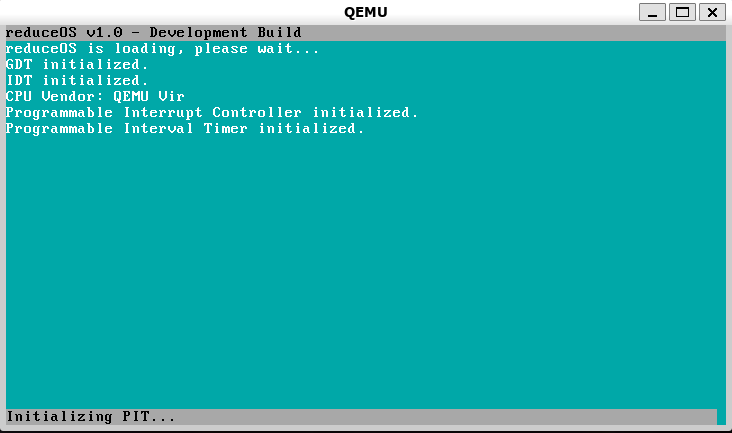
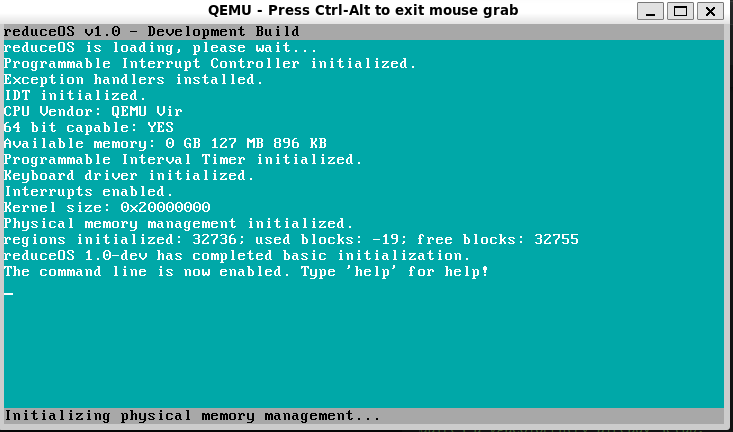
Prepare for alpha release - cleanup code and remove some debug instructions. Update reduceOS demo picture.

diff --git a/source/kernel/kernel.c b/source/kernel/kernel.c
@@ -34,6 +34,12 @@ int getSystemInformation(char *args[]) {
     return 1; // Return
 }
 
+
+int help(char *args[]) {
+    printf("reduceOS v1.0-dev\nValid commands:\ntest, system, help\n");
+    return 1;
+}
+
 // kmain() - The most important function in all of reduceOS. Jumped here by loadKernel.asm.
 void kmain(multiboot_info* mem) {
     initTerminal(); // Initialize the terminal and clear the screen
@@ -128,9 +134,12 @@ void kmain(multiboot_info* mem) {
 
     // Possible bug here in that used blocks isn't a valid number.
     printf("regions initialized: %i; used blocks: %i; free blocks: %i\n", getBlockCount(), getUsedBlockCount(), getFreeBlockCount());
-    
+
+    printf("reduceOS 1.0-dev has completed basic initialization.\nThe command line is now enabled. Type 'help' for help!\n");
+
     registerCommand("test", (command*)testFunction);
     registerCommand("system", (command*)getSystemInformation);
+    registerCommand("help", (command*)help);
 
     char buffer[256]; // We will store keyboard input here.
 

diff --git a/source/kernel/terminal.c b/source/kernel/terminal.c
@@ -110,28 +110,6 @@ void terminalMoveArrowKeys(int arrowKey) {
     }
 }
 
-// REMOVE:
-void debugterminalPutchar(char c) {
-    int line;
-    unsigned char uc = c; // terminalPutcharXY() requires an unsigned char.
-
-    // Perform the scrolling stuff for X
-    if (terminalX == SCREEN_WIDTH) {
-        terminalX = 0;
-        terminalY++;
-    }
-
-    // Perform the scrolling stuff for Y
-    scrollTerminal();
-
-
-    terminalPutcharXY(uc, terminalColor, terminalX, terminalY); // Place an entry at terminal X and Y.
-    terminalX++;
-    
-    // Update text mode cursor
-    updateTextCursor();
-}
-
 
 // terminalPutchar(char c) - This is the recommended function to use (besides printf, that'll be later) as it incorporates scrollTerminal and terminalDeleteLastLine.
 void terminalPutchar(char c) {

diff --git a/source/kernel/include/terminal.h b/source/kernel/include/terminal.h
@@ -40,7 +40,6 @@ void terminalWriteStringXY(const char *data, size_t x, size_t y); // terminalWri
 void terminalMoveArrowKeys(int arrowKey); // terminalMoveArrowKeys() - used by keyboard.c, a function to move the cursor around
 void updateBottomText(char *bottomText); // updateBottomText() - A function to update that bottom bar of text
 int printf(const char* restrict format, ...); // printf() - the main function of the entire file. Handles unlimited arguments, %s and %c, and scrolling.
-void debugterminalPutchar(char c); // REMOVE
 // As described in the C file, certain printf functions are NOT present in this file, like putc and print, as they are only helper functions for printf.
 // They are likely going to be removed and merged into terminal.c.
 #endif
